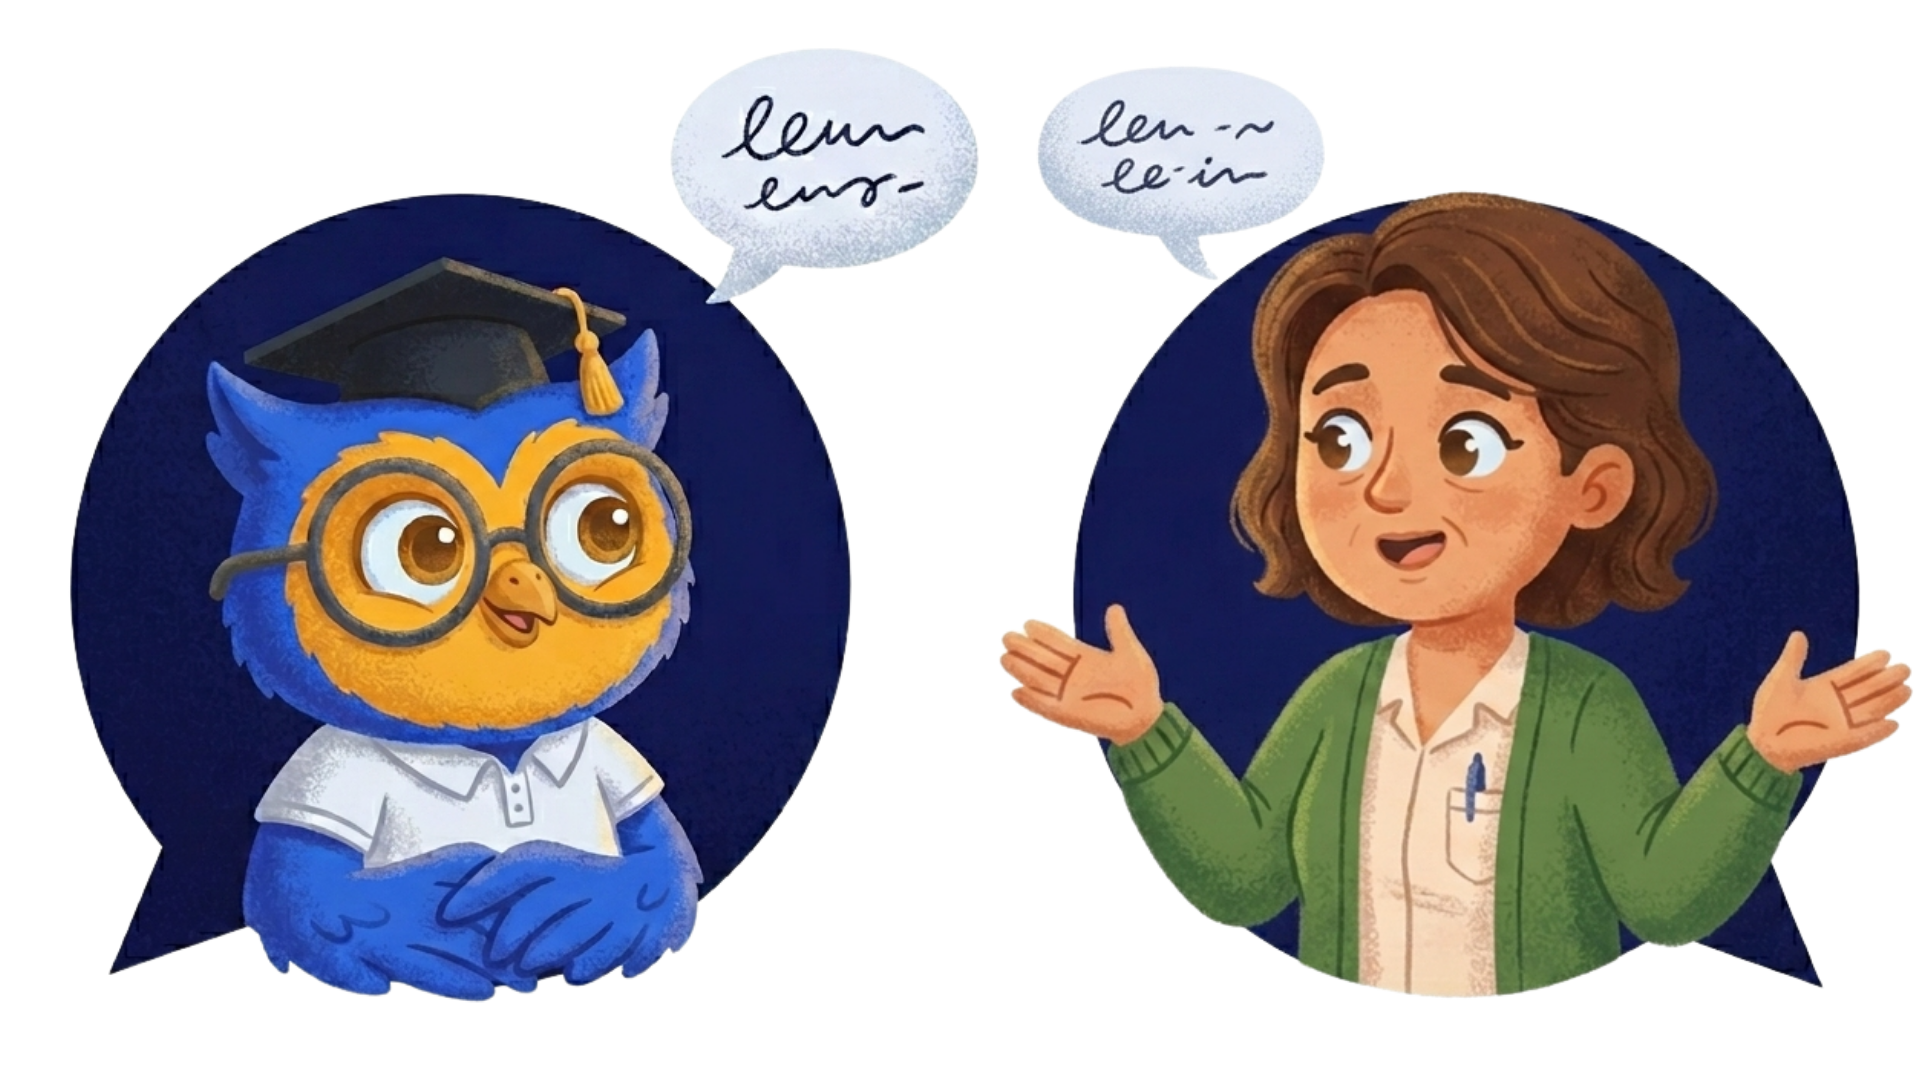
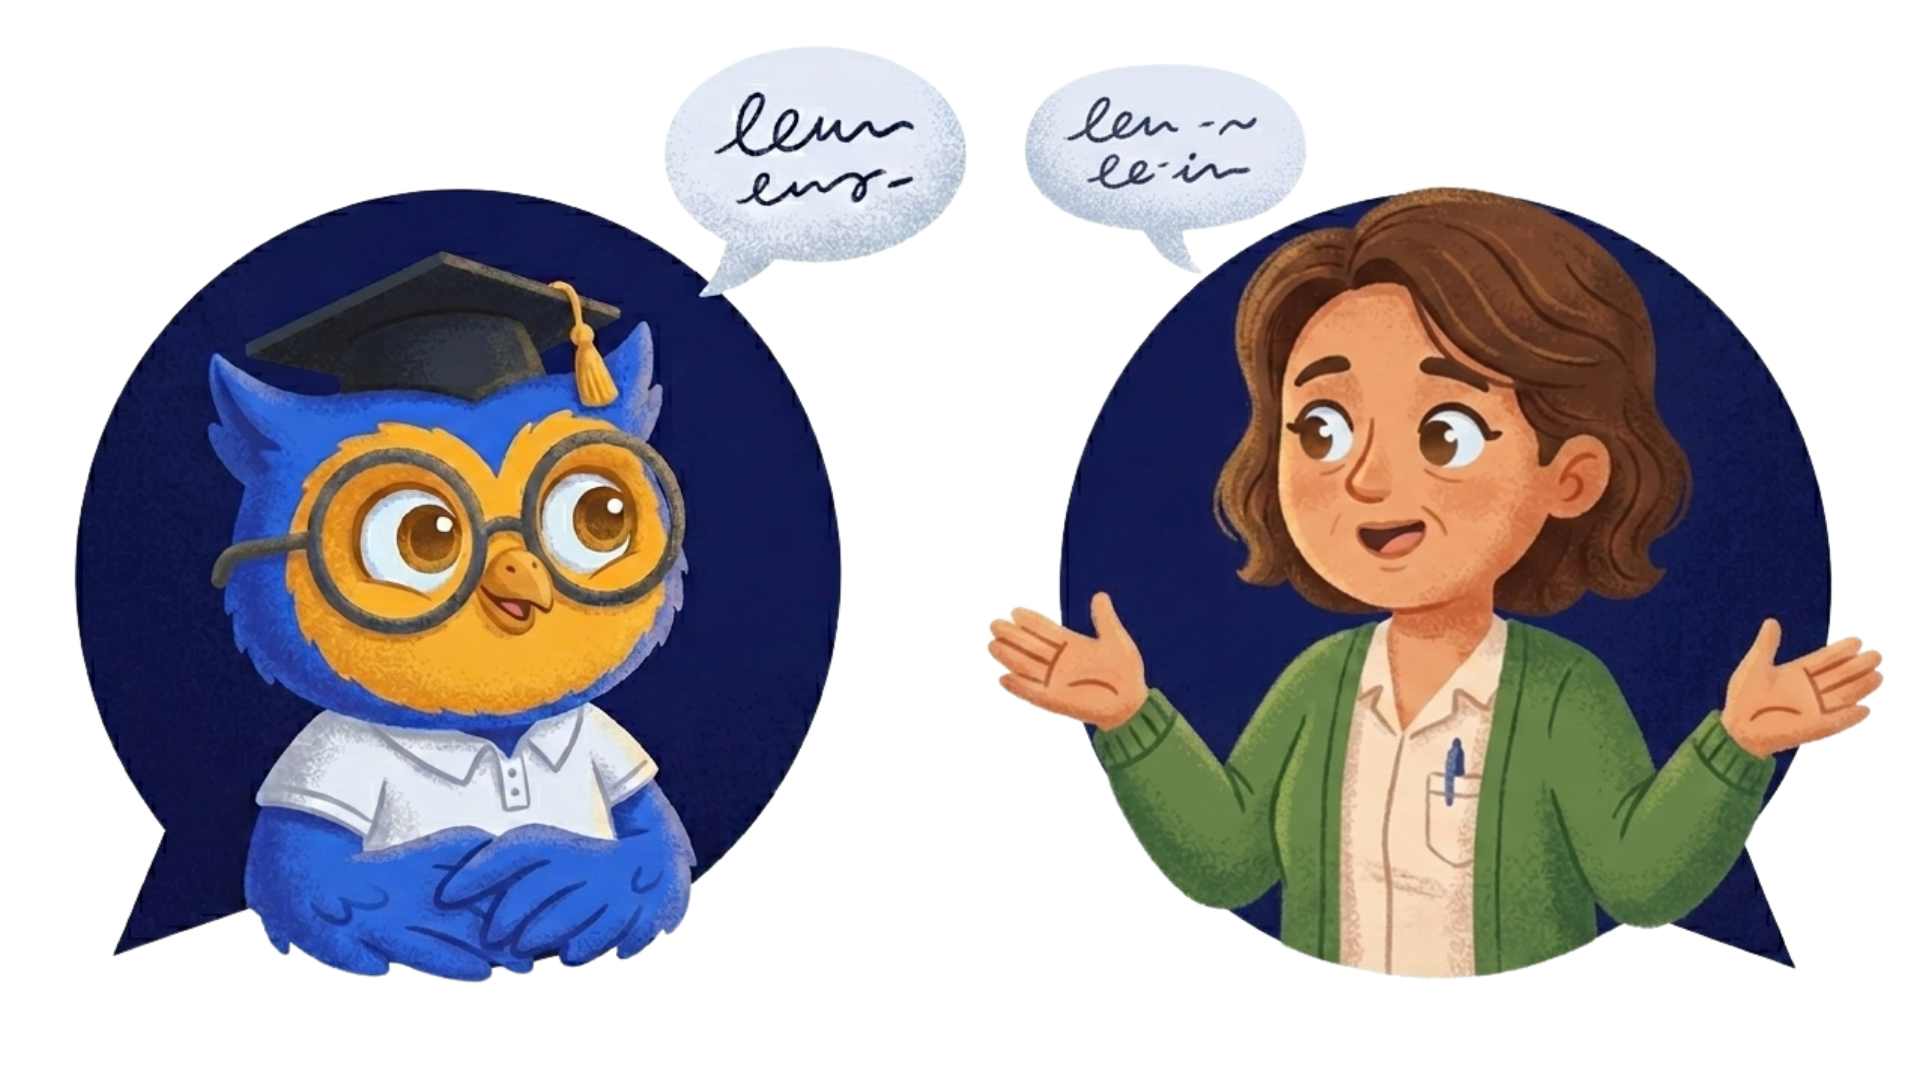
feat: update illustration #05 — cover fill, no lateral spaces
https://claude.ai/code/session_01RkffZofRWYrmxVn1fADK2T

diff --git a/index.html b/index.html
@@ -1286,7 +1286,7 @@
 
       <!-- ILLUSTRATION #05 -->
       <div class="illu animate-in" style="transition-delay:.1s;background:transparent;border:none;padding:0;overflow:hidden;">
-        <img src="illu-05.png" alt="Chat com IA" style="width:100%;height:100%;object-fit:contain;object-position:center;border-radius:24px;display:block;">
+        <img src="illu-05.png?v=2" alt="Chat com IA" style="width:100%;height:100%;object-fit:cover;object-position:center;border-radius:24px;display:block;">
       </div>
     </div>
 
